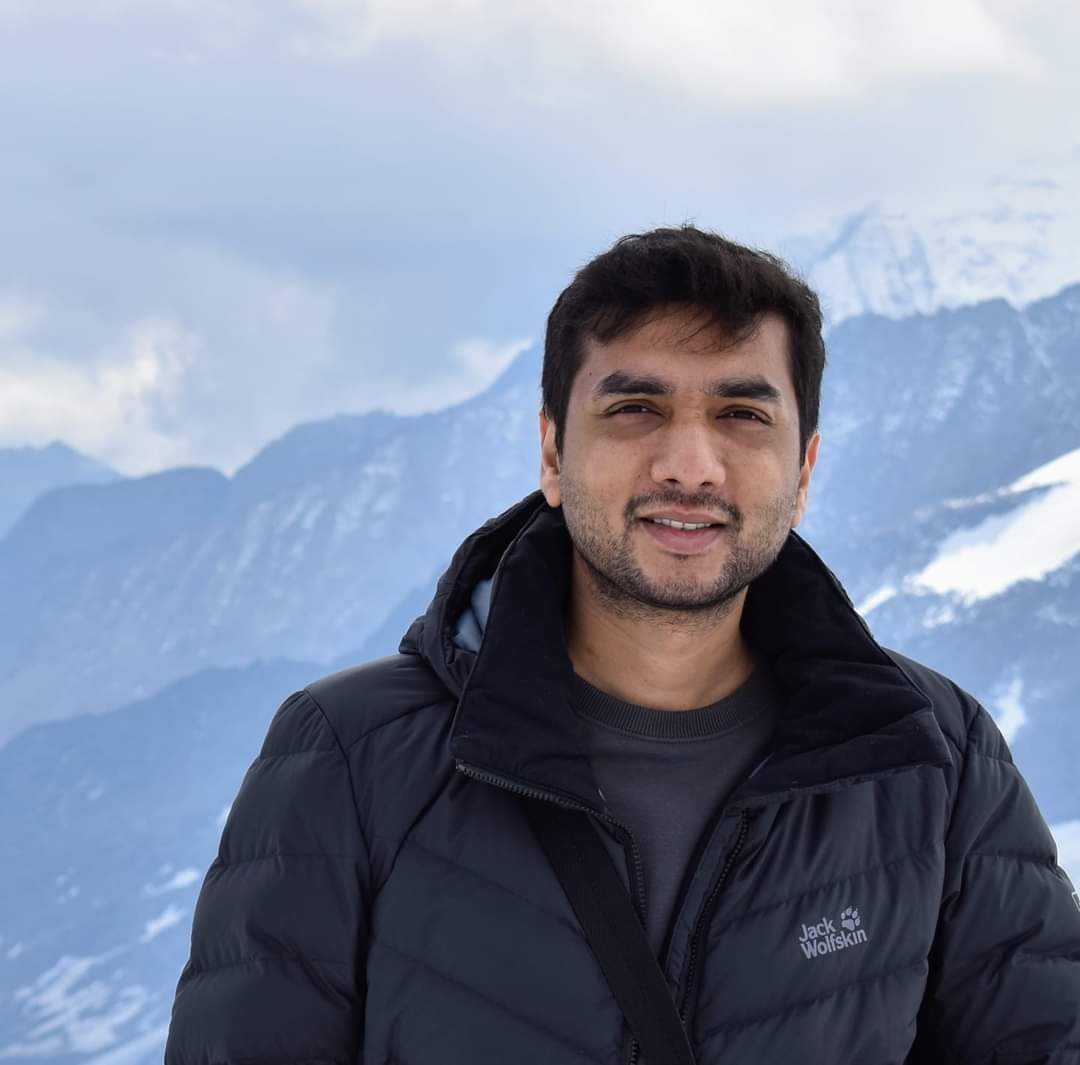
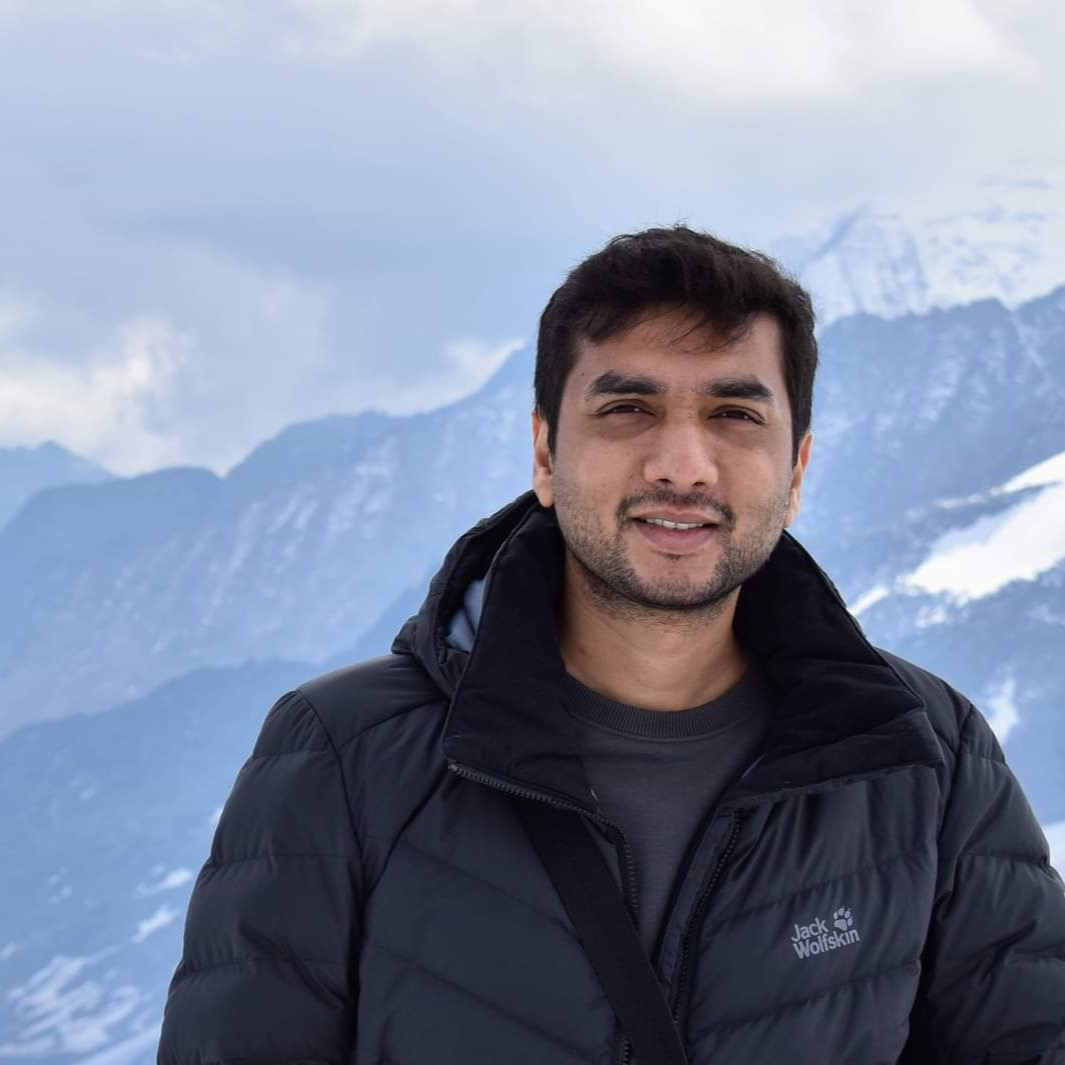
Make hero portrait square (1065px) and larger (220px)

diff --git a/index.html b/index.html
@@ -121,7 +121,7 @@
     }
     .hero-inner { max-width: var(--maxw); margin: 0 auto; width: 100%; display: flex; align-items: center; gap: 44px; }
     .hero-avatar {
-      width: 168px; height: 168px; border-radius: 50%; object-fit: cover; flex-shrink: 0;
+      width: 220px; height: 220px; border-radius: 18px; object-fit: cover; flex-shrink: 0;
       border: 1px solid var(--teal-d);
       box-shadow: 0 0 0 6px rgba(94,234,212,.06), 0 14px 44px rgba(0,0,0,.5);
       opacity: 0; transform: translateY(12px);
@@ -129,7 +129,7 @@
     }
     @media (max-width: 640px) {
       .hero-inner { flex-direction: column; align-items: flex-start; gap: 26px; }
-      .hero-avatar { width: 112px; height: 112px; }
+      .hero-avatar { width: 150px; height: 150px; }
     }
     .kicker {
       font-family: var(--mono); font-size: .74rem; letter-spacing: .22em;
@@ -318,7 +318,7 @@
 <section class="hero">
   <canvas id="field"></canvas>
   <div class="hero-inner">
-    <img class="hero-avatar" src="img/avatar.jpg" alt="Bhavesh Soni, computational biologist at Roche pRED and the University of Oxford" width="168" height="168">
+    <img class="hero-avatar" src="img/avatar.jpg" alt="Bhavesh Soni, computational biologist at Roche pRED and the University of Oxford" width="220" height="220">
     <div class="hero-text">
       <h1>
         <span class="ln"><span>Hi, I'm</span></span>
